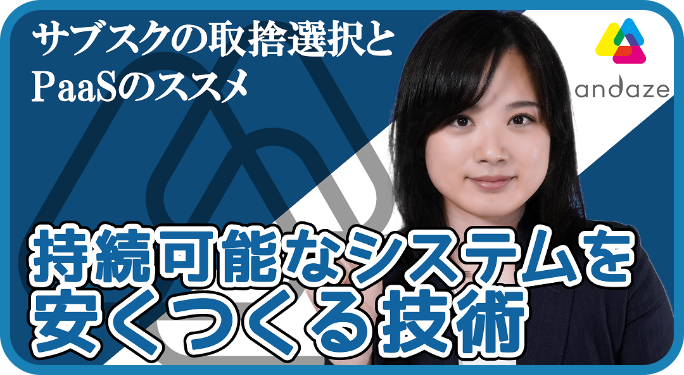
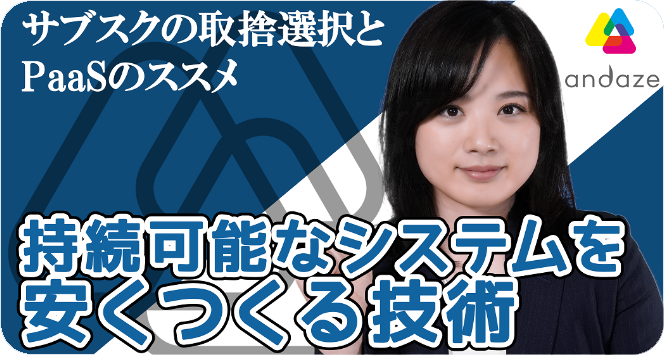
update style of lead section

diff --git a/themes/generic-dx/layouts/partials/organism/div.lead-images.html b/themes/generic-dx/layouts/partials/organism/div.lead-images.html
@@ -6,38 +6,40 @@
         </p>
     </div>
     
-    <div class="relative h-[200px] w-[360px] lg:h-[275px] lg:w-[500px] cursor-pointer select-none shrink-0">
-    
-        {{ .Scratch.Set "class" "w-full h-full object-contain mx-auto movie-thumbnail" }}
-        {{ .Scratch.Set "src" "images/paas-no-susume.png" }}
-        {{ .Scratch.Set "type" "thumbnail-lg" }}
-        {{ .Scratch.Set "quolity" "100" }}
-        {{ .Scratch.Set "id" "j_JhrVnCVFQ" }}
-    
-            {{ partial "atom/atom-picture.html" . }}
-    
-        {{ .Scratch.Delete "id" }}
-        {{ .Scratch.Delete "quolity" }}
-        {{ .Scratch.Delete "type" }}
-        {{ .Scratch.Delete "src" }}
-        {{ .Scratch.Delete "class" }}
-    
-        <div class="bg-gradient-to-r from-blue-600 to-[#1A81B6] w-[66px] h-[66px] flex flex-col justify-center rounded-full border-4 border-[#1264A3] absolute top-1/2 -translate-y-1/2 left-1/2 -translate-x-1/2 pointer-events-none">
+    <div class="bg-gradient-to-r from-blue-600 to-[#1A81B6] p-2 rounded-3xl shrink-0 shadow-lg shadow-gray-500">
+        <div class="relative h-[200px] w-[360px] lg:h-[275px] lg:w-[500px] rounded-3xl cursor-pointer select-none overflow-hidden">
         
-            {{ .Scratch.Set "class" "w-[22px] h-[22px] mx-auto" }}
-            {{ .Scratch.Set "src" "images/arrow.png" }}
+            {{ .Scratch.Set "class" "w-full h-full object-contain mx-auto transform transition duration-500 hover:scale-110 movie-thumbnail" }}
+            {{ .Scratch.Set "src" "images/paas-no-susume.png" }}
             {{ .Scratch.Set "type" "thumbnail-lg" }}
             {{ .Scratch.Set "quolity" "100" }}
+            {{ .Scratch.Set "id" "j_JhrVnCVFQ" }}
         
                 {{ partial "atom/atom-picture.html" . }}
         
+            {{ .Scratch.Delete "id" }}
             {{ .Scratch.Delete "quolity" }}
             {{ .Scratch.Delete "type" }}
             {{ .Scratch.Delete "src" }}
             {{ .Scratch.Delete "class" }}
         
+            <div class="bg-gradient-to-r from-blue-600 to-[#1A81B6] w-[66px] h-[66px] flex flex-col justify-center rounded-full border-4 border-[#1264A3] absolute top-1/2 -translate-y-1/2 left-1/2 -translate-x-1/2 pointer-events-none">
+            
+                {{ .Scratch.Set "class" "w-[22px] h-[22px] mx-auto" }}
+                {{ .Scratch.Set "src" "images/arrow.png" }}
+                {{ .Scratch.Set "type" "thumbnail-lg" }}
+                {{ .Scratch.Set "quolity" "100" }}
+            
+                    {{ partial "atom/atom-picture.html" . }}
+            
+                {{ .Scratch.Delete "quolity" }}
+                {{ .Scratch.Delete "type" }}
+                {{ .Scratch.Delete "src" }}
+                {{ .Scratch.Delete "class" }}
+            
+            </div>
+        
         </div>
-    
     </div>
     
     <div class="bg-[url('../img/fukidashi_cloud_2.png')] bg-contain h-[180px] w-[180px] lg:h-[180px] lg:w-[180px] mt-4 ml-4 flex flex-col justify-center bg-no-repeat text-center shrink-0">
